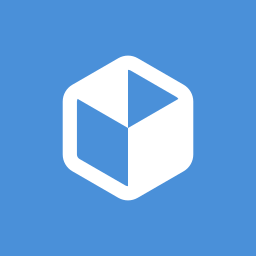
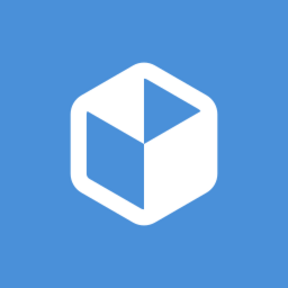
flatpak: resize image, fix typo

diff --git a/topics/flatpak/index.md b/topics/flatpak/index.md
@@ -1,6 +1,6 @@
 ---
 display_name: Flatpak
-short_description: Linux application sandboxing and distribution framework
+short_description: Linux application sandboxing and distribution framework.
 github_url: https://github.com/flatpak
 logo: flatpak.png
 topic: flatpak
